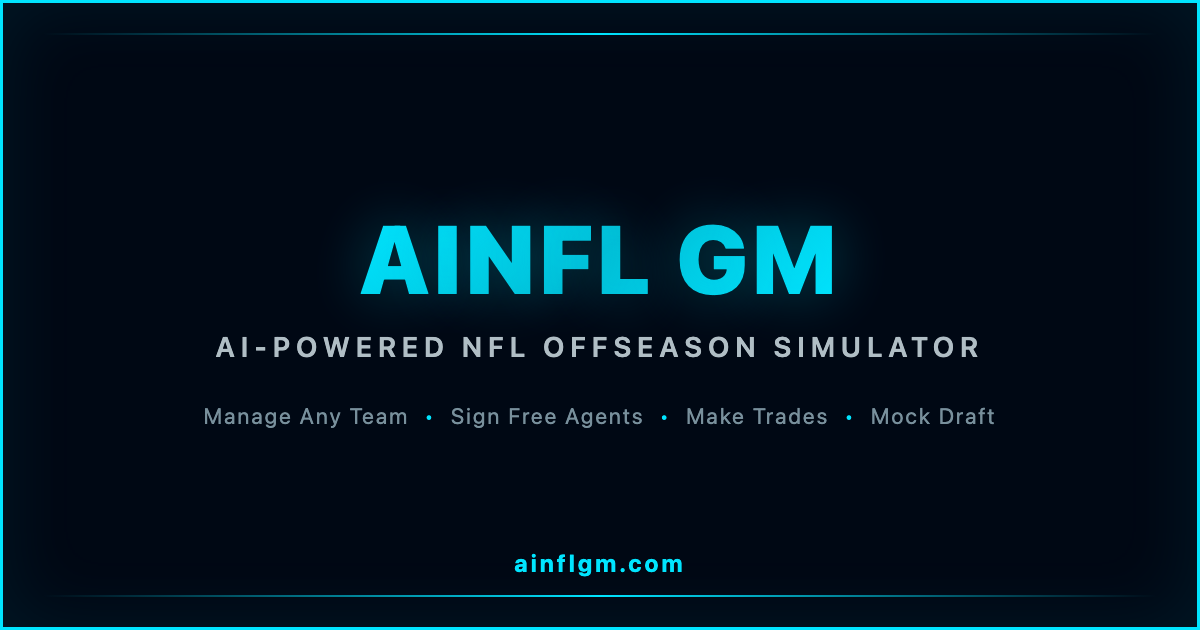
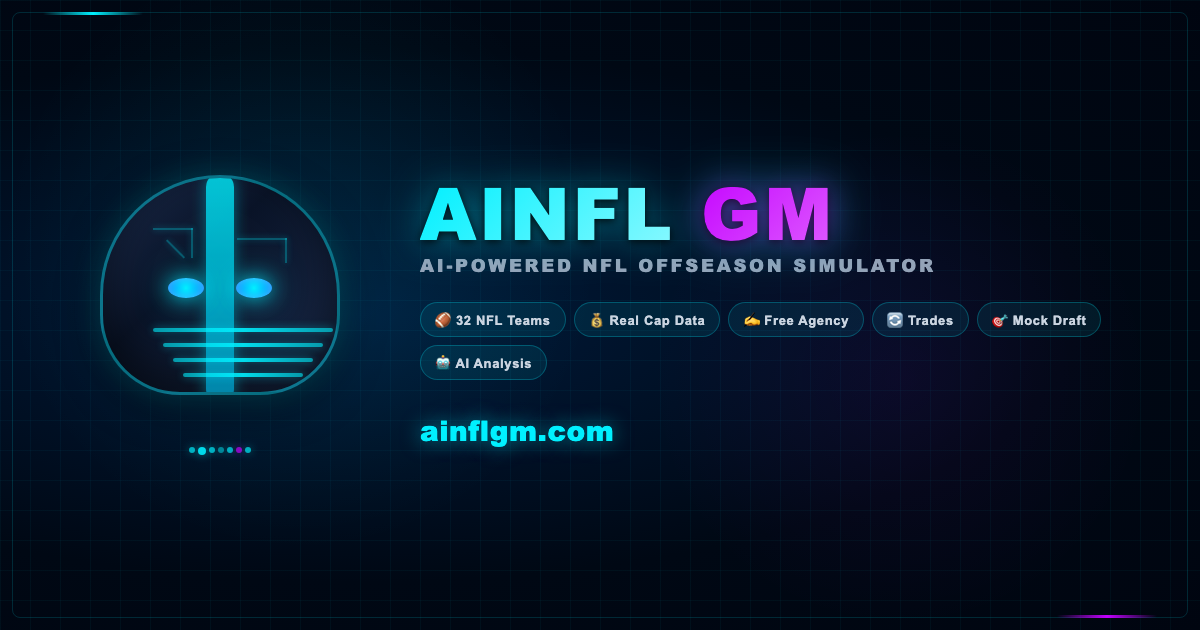
New OG image: AI robot head with football helmet

Changed region(s): [[0.0, 0.0603, 0.925, 0.9349], [0.0, 0.0, 1.0, 1.0], [0.2467, 0.754, 0.2775, 0.7841]]

diff --git a/public/og-image.html b/public/og-image.html
@@ -1,76 +1,154 @@
 <!DOCTYPE html>
-<html lang="en">
+<html>
 <head>
-<meta charset="UTF-8" />
 <style>
   * { margin: 0; padding: 0; box-sizing: border-box; }
   body {
     width: 1200px;
     height: 630px;
-    background: #000814;
+    background: radial-gradient(ellipse at 30% 50%, #001a3a 0%, #000814 60%, #000510 100%);
     display: flex;
-    flex-direction: column;
     align-items: center;
     justify-content: center;
-    font-family: -apple-system, BlinkMacSystemFont, 'Segoe UI', Roboto, sans-serif;
+    font-family: 'Arial Black', 'Helvetica Neue', Arial, sans-serif;
     overflow: hidden;
     position: relative;
-    border: 3px solid #00e5ff;
-    box-shadow: inset 0 0 80px rgba(0,229,255,0.08);
   }
-  .accent-top, .accent-bottom {
+  body::before {
+    content: '';
     position: absolute;
-    left: 40px; right: 40px;
-    height: 2px;
-    background: linear-gradient(90deg, transparent, #00e5ff, transparent);
+    top: 0; left: 0; right: 0; bottom: 0;
+    background:
+      linear-gradient(rgba(0,240,255,0.04) 1px, transparent 1px),
+      linear-gradient(90deg, rgba(0,240,255,0.04) 1px, transparent 1px);
+    background-size: 30px 30px;
   }
-  .accent-top { top: 30px; }
-  .accent-bottom { bottom: 30px; }
+  body::after {
+    content: '';
+    position: absolute;
+    top: 0; left: 0; right: 0; bottom: 0;
+    background:
+      radial-gradient(300px 300px at 25% 40%, rgba(0,240,255,0.08), transparent),
+      radial-gradient(250px 250px at 75% 60%, rgba(195,0,255,0.06), transparent);
+  }
+  .container {
+    position: relative; z-index: 2;
+    display: flex; align-items: center; gap: 60px; padding: 0 80px; width: 100%;
+  }
+  .robot { flex-shrink: 0; width: 280px; height: 320px; position: relative; }
+  .helmet {
+    position: absolute; top: 20px; left: 20px; width: 240px; height: 220px;
+    background: linear-gradient(135deg, #1a2a4a 0%, #0a1428 40%, #1a2a4a 100%);
+    border-radius: 120px 120px 80px 80px;
+    border: 3px solid rgba(0,240,255,0.4);
+    box-shadow: 0 0 30px rgba(0,240,255,0.2), inset 0 -20px 40px rgba(0,0,0,0.5), 0 10px 40px rgba(0,0,0,0.5);
+    overflow: hidden;
+  }
+  .helmet::before {
+    content: ''; position: absolute; top: -5px; left: 50%; transform: translateX(-50%);
+    width: 28px; height: 230px;
+    background: linear-gradient(180deg, #00F0FF, #00A0CC);
+    border-radius: 14px; opacity: 0.8; box-shadow: 0 0 15px rgba(0,240,255,0.5);
+  }
+  .facemask { position: absolute; top: 140px; left: 40px; width: 200px; height: 80px; }
+  .facemask-bar {
+    position: absolute; height: 4px;
+    background: linear-gradient(90deg, rgba(0,240,255,0.6), rgba(0,240,255,0.9), rgba(0,240,255,0.6));
+    border-radius: 2px; box-shadow: 0 0 8px rgba(0,240,255,0.4);
+  }
+  .facemask-bar:nth-child(1) { top: 10px; left: 10px; width: 180px; }
+  .facemask-bar:nth-child(2) { top: 25px; left: 20px; width: 160px; }
+  .facemask-bar:nth-child(3) { top: 40px; left: 30px; width: 140px; }
+  .facemask-bar:nth-child(4) { top: 55px; left: 40px; width: 120px; }
+  .eye {
+    position: absolute; width: 36px; height: 20px; border-radius: 50%;
+    background: radial-gradient(circle, #00F0FF, #0080FF);
+    box-shadow: 0 0 20px rgba(0,240,255,0.8), 0 0 40px rgba(0,240,255,0.4), inset 0 0 10px rgba(255,255,255,0.3);
+  }
+  .eye-left { top: 100px; left: 65px; }
+  .eye-right { top: 100px; right: 65px; }
+  .circuit-line { position: absolute; background: rgba(0,240,255,0.3); box-shadow: 0 0 6px rgba(0,240,255,0.3); }
+  .cl1 { top: 50px; left: 50px; width: 40px; height: 2px; }
+  .cl2 { top: 50px; left: 88px; width: 2px; height: 30px; }
+  .cl3 { top: 60px; right: 50px; width: 50px; height: 2px; }
+  .cl4 { top: 60px; right: 50px; width: 2px; height: 25px; }
+  .cl5 { top: 70px; left: 60px; width: 25px; height: 2px; transform: rotate(45deg); }
+  .neural { position: absolute; bottom: 20px; left: 50%; transform: translateX(-50%); display: flex; gap: 3px; }
+  .neural-dot { width: 6px; height: 6px; background: #00F0FF; border-radius: 50%; box-shadow: 0 0 8px rgba(0,240,255,0.6); opacity: 0.7; }
+  .neural-dot:nth-child(2) { opacity: 0.9; width: 8px; height: 8px; }
+  .neural-dot:nth-child(4) { opacity: 0.5; }
+  .neural-dot:nth-child(6) { background: #C300FF; box-shadow: 0 0 8px rgba(195,0,255,0.6); }
+  .text-side { flex: 1; }
   .title {
-    font-size: 96px;
-    font-weight: 900;
-    letter-spacing: 4px;
-    background: linear-gradient(135deg, #00e5ff 0%, #00bcd4 50%, #00e5ff 100%);
-    -webkit-background-clip: text;
-    -webkit-text-fill-color: transparent;
-    text-shadow: 0 0 60px rgba(0,229,255,0.3);
-    margin-bottom: 16px;
+    font-size: 72px; font-weight: 900; letter-spacing: 0.04em; line-height: 0.9;
+    background: linear-gradient(135deg, #00F0FF 0%, #80F8FF 40%, #E2E8F0 100%);
+    -webkit-background-clip: text; -webkit-text-fill-color: transparent;
+    filter: drop-shadow(0 2px 4px rgba(0,0,0,0.8)) drop-shadow(0 0 20px rgba(0,240,255,0.4));
+    margin-bottom: 8px;
   }
-  .subtitle {
-    font-size: 28px;
-    font-weight: 600;
-    color: #b0bec5;
-    letter-spacing: 6px;
-    text-transform: uppercase;
-    margin-bottom: 40px;
+  .gm {
+    background: linear-gradient(135deg, #C300FF 0%, #E060FF 100%);
+    -webkit-background-clip: text; -webkit-text-fill-color: transparent;
+    filter: drop-shadow(0 0 15px rgba(195,0,255,0.4));
   }
-  .features {
-    font-size: 22px;
-    color: #78909c;
-    letter-spacing: 2px;
+  .subtitle { font-size: 18px; color: #94A3B8; letter-spacing: 0.15em; text-transform: uppercase; font-weight: 700; margin-bottom: 24px; }
+  .features { display: flex; flex-wrap: wrap; gap: 8px; margin-bottom: 30px; }
+  .feature {
+    background: rgba(0,240,255,0.08); border: 1px solid rgba(0,240,255,0.25);
+    color: #CBD5E1; padding: 6px 14px; border-radius: 20px; font-size: 13px;
+    font-weight: 700; letter-spacing: 0.05em; font-family: Arial, sans-serif;
   }
-  .features span {
-    color: #00e5ff;
-    margin: 0 8px;
+  .url { font-size: 28px; font-weight: 900; color: #00F0FF; letter-spacing: 0.02em; text-shadow: 0 0 20px rgba(0,240,255,0.5); }
+  .frame {
+    position: absolute; top: 12px; left: 12px; right: 12px; bottom: 12px;
+    border: 1px solid rgba(0,240,255,0.15); border-radius: 8px; pointer-events: none;
   }
-  .url {
-    position: absolute;
-    bottom: 50px;
-    font-size: 24px;
-    font-weight: 700;
-    color: #00e5ff;
-    letter-spacing: 3px;
-  }
+  .frame::before { content: ''; position: absolute; top: -1px; left: 30px; width: 100px; height: 3px; background: linear-gradient(90deg, transparent, #00F0FF, transparent); }
+  .frame::after { content: ''; position: absolute; bottom: -1px; right: 30px; width: 100px; height: 3px; background: linear-gradient(90deg, transparent, #C300FF, transparent); }
 </style>
 </head>
 <body>
-  <div class="accent-top"></div>
-  <div class="title">AINFL GM</div>
-  <div class="subtitle">AI-Powered NFL Offseason Simulator</div>
-  <div class="features">
-    Manage Any Team <span>•</span> Sign Free Agents <span>•</span> Make Trades <span>•</span> Mock Draft
+  <div class="frame"></div>
+  <div class="container">
+    <div class="robot">
+      <div class="helmet">
+        <div class="circuit-line cl1"></div>
+        <div class="circuit-line cl2"></div>
+        <div class="circuit-line cl3"></div>
+        <div class="circuit-line cl4"></div>
+        <div class="circuit-line cl5"></div>
+        <div class="eye eye-left"></div>
+        <div class="eye eye-right"></div>
+        <div class="facemask">
+          <div class="facemask-bar"></div>
+          <div class="facemask-bar"></div>
+          <div class="facemask-bar"></div>
+          <div class="facemask-bar"></div>
+        </div>
+      </div>
+      <div class="neural">
+        <div class="neural-dot"></div>
+        <div class="neural-dot"></div>
+        <div class="neural-dot"></div>
+        <div class="neural-dot"></div>
+        <div class="neural-dot"></div>
+        <div class="neural-dot"></div>
+        <div class="neural-dot"></div>
+      </div>
+    </div>
+    <div class="text-side">
+      <div class="title">AINFL <span class="gm">GM</span></div>
+      <div class="subtitle">AI-Powered NFL Offseason Simulator</div>
+      <div class="features">
+        <span class="feature">🏈 32 NFL Teams</span>
+        <span class="feature">💰 Real Cap Data</span>
+        <span class="feature">✍ Free Agency</span>
+        <span class="feature">🔄 Trades</span>
+        <span class="feature">🎯 Mock Draft</span>
+        <span class="feature">🤖 AI Analysis</span>
+      </div>
+      <div class="url">ainflgm.com</div>
+    </div>
   </div>
-  <div class="url">ainflgm.com</div>
-  <div class="accent-bottom"></div>
 </body>
 </html>
